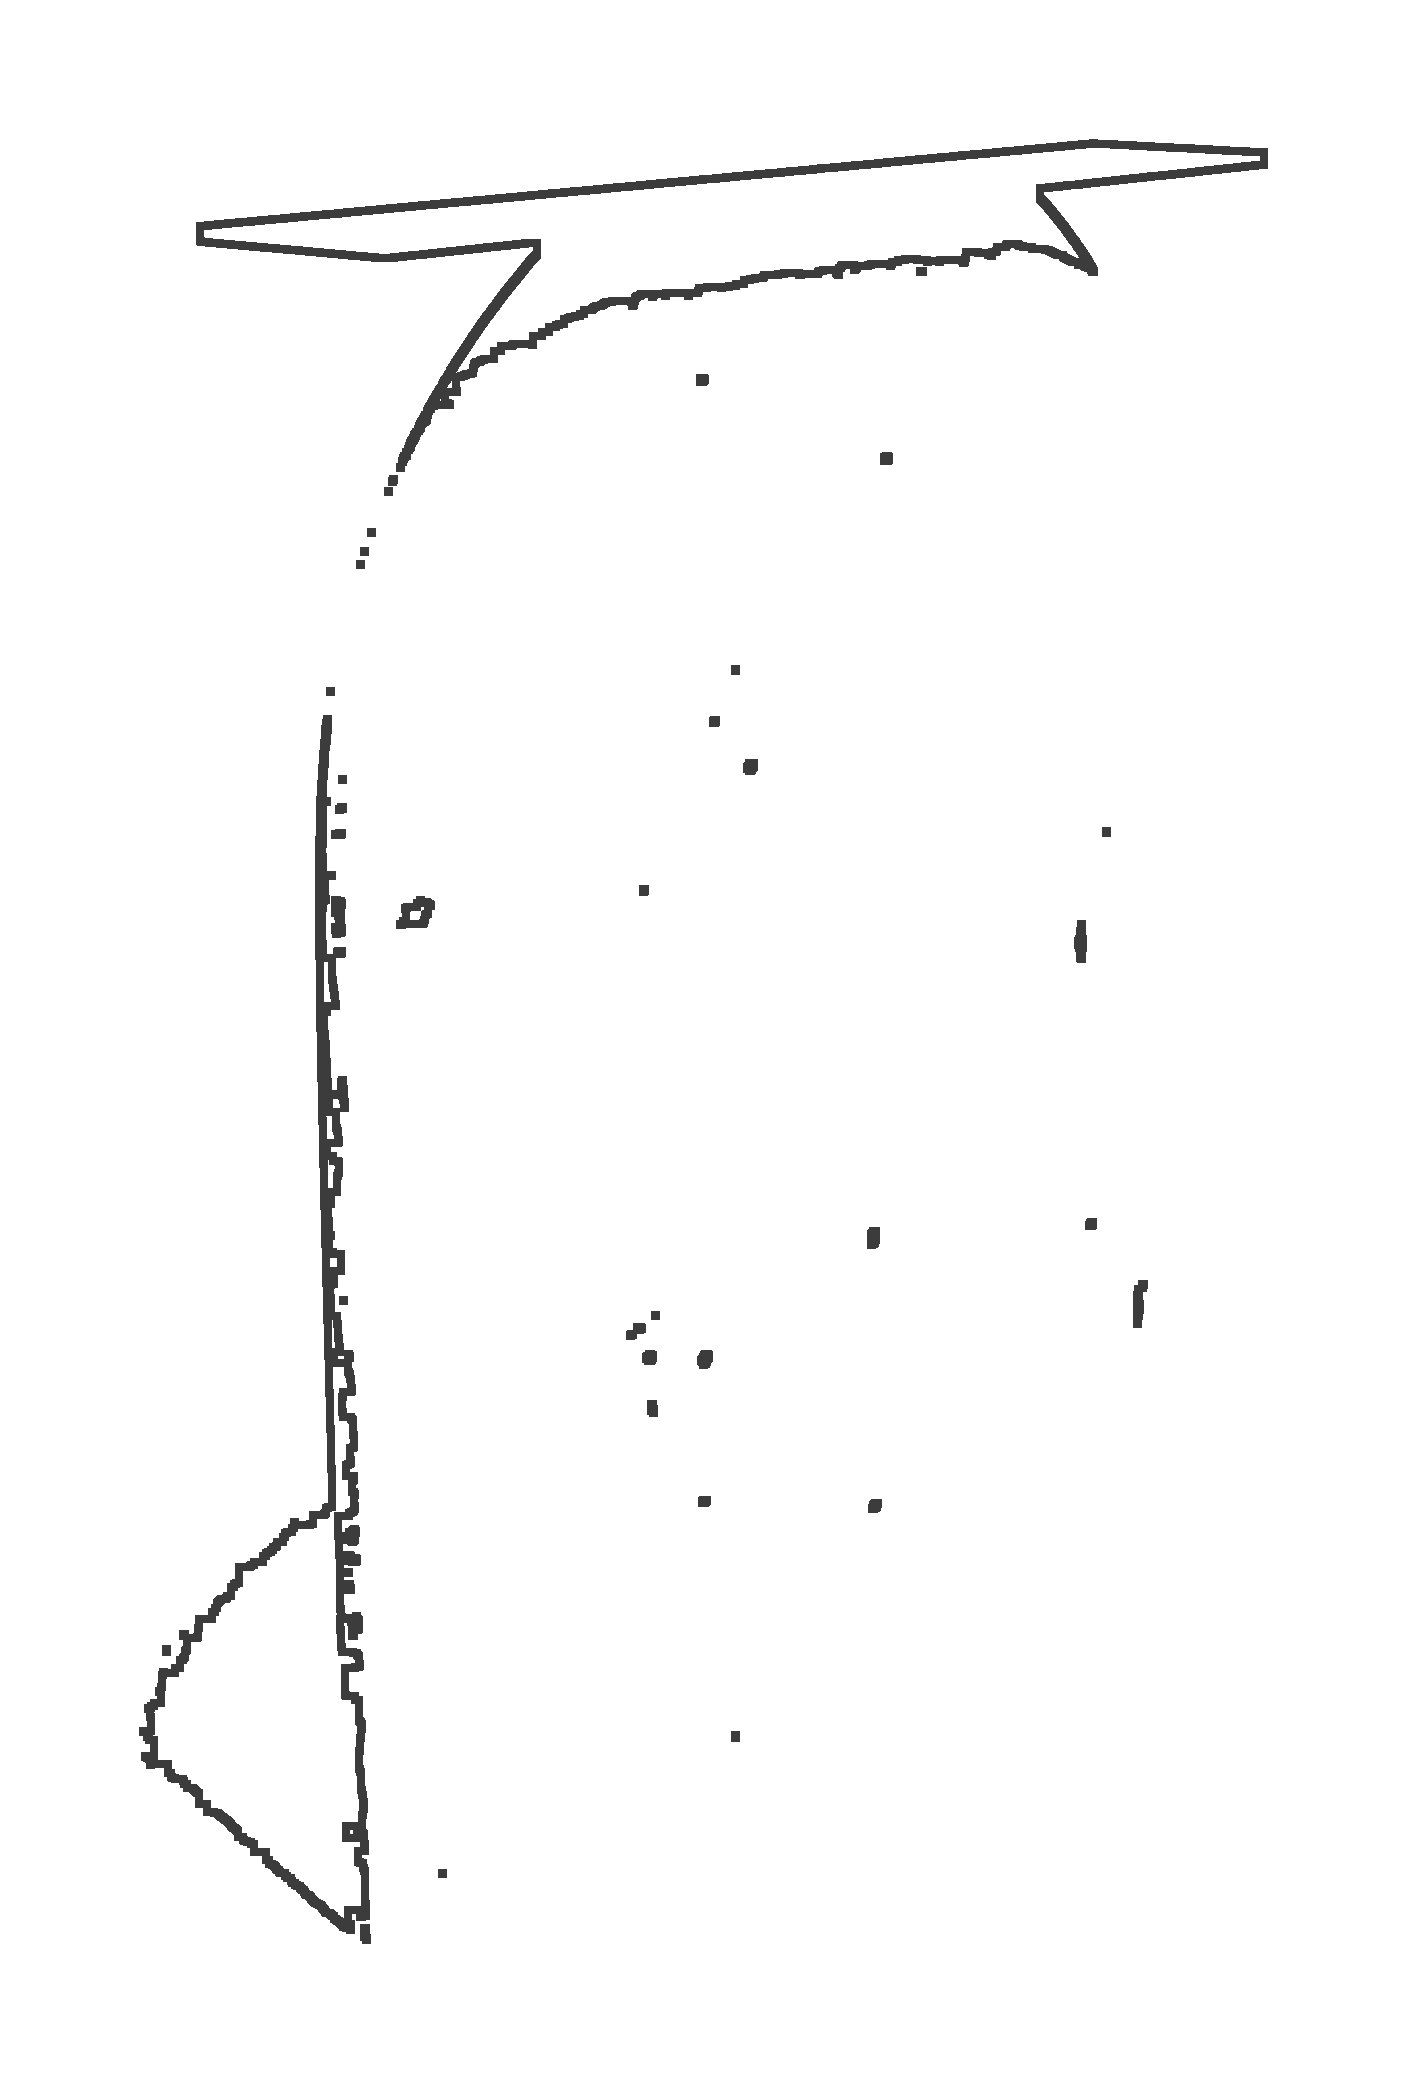
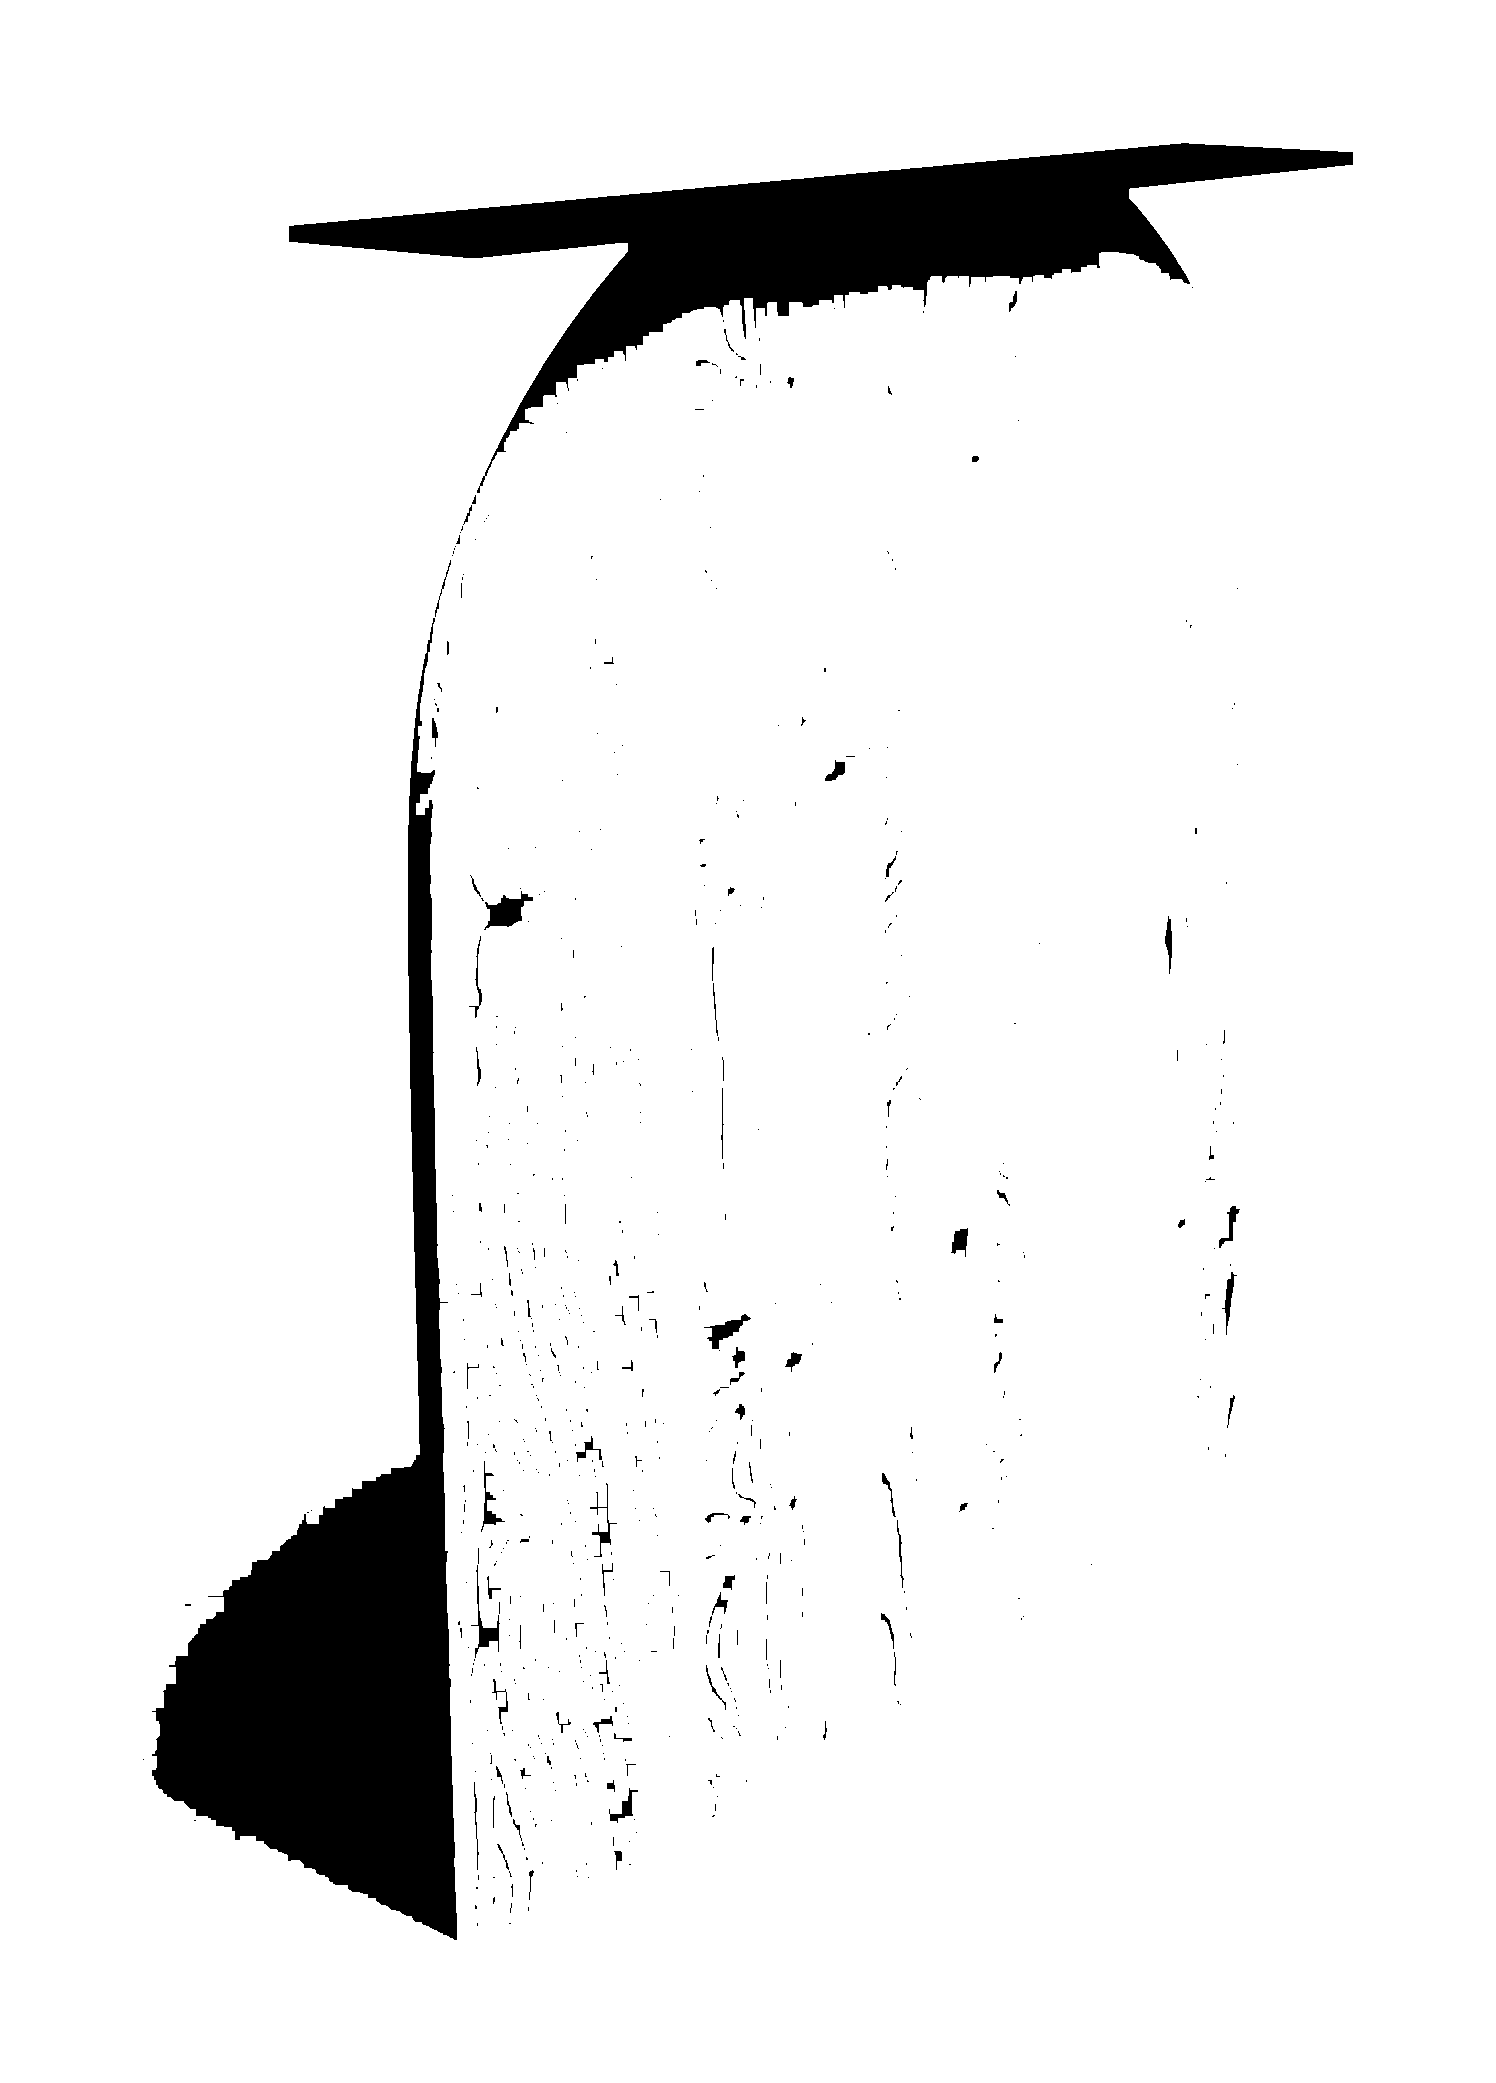
All 26 legs: solid black silhouettes (like U legs) — unified style

diff --git a/configurator/js/app.js b/configurator/js/app.js
@@ -3580,10 +3580,10 @@ class TableConfigurator {
       if (name === 'Lara') {
         const file = 'Aeris Tischgestell aus Eichenholz_bw.png';
         void isWood;
-        return `<img src="Swatches/Onderstel/${file}?v=6f258c3-bw5" alt="${name}"/>`;
+        return `<img src="Swatches/Onderstel/${file}?v=6f67e6e-bw6" alt="${name}"/>`;
       }
       const file = legSwatchFiles[name];
-      if (file) return `<img src="Swatches/Onderstel/${file}?v=6f258c3-bw5" alt="${name}"/>`;
+      if (file) return `<img src="Swatches/Onderstel/${file}?v=6f67e6e-bw6" alt="${name}"/>`;
       // Fallback SVG for unmapped legs
       return `<svg viewBox="0 0 60 50" fill="none" stroke="currentColor" stroke-width="1.5"><line x1="5" y1="6" x2="55" y2="6"/><line x1="14" y1="6" x2="14" y2="46"/><line x1="46" y1="6" x2="46" y2="46"/></svg>`;
     };

diff --git a/configurator/index.html b/configurator/index.html
@@ -18,7 +18,7 @@
       }
     })();
   </script>
-  <link rel="stylesheet" href="css/styles.css?v=f19cc34">
+  <link rel="stylesheet" href="css/styles.css?v=dfb450b">
   <script type="module" src="https://ajax.googleapis.com/ajax/libs/model-viewer/3.4.0/model-viewer.min.js"></script>
   <link rel="preconnect" href="https://fonts.googleapis.com">
   <link href="https://fonts.googleapis.com/css2?family=Inter:wght@300;400;500;600&display=swap" rel="stylesheet">
@@ -297,6 +297,6 @@
     Konfigurieren
   </button>
 
-  <script type="module" src="js/app.js?v=f19cc34"></script>
+  <script type="module" src="js/app.js?v=dfb450b"></script>
 </body>
 </html>
